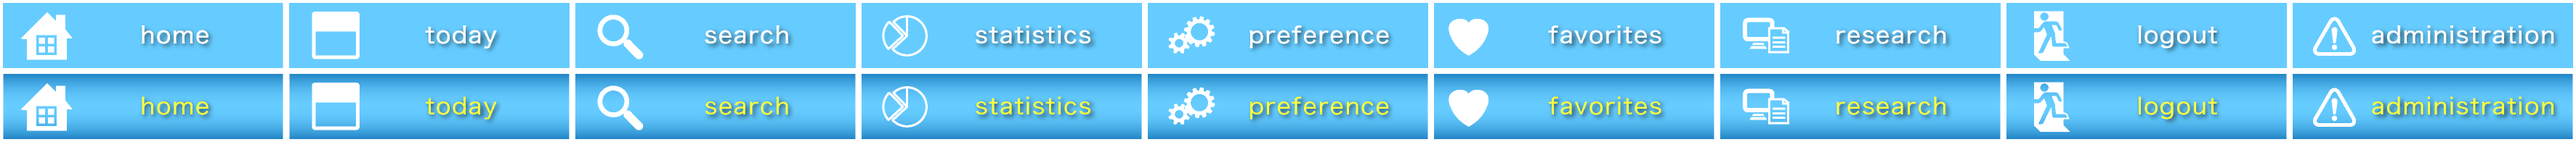
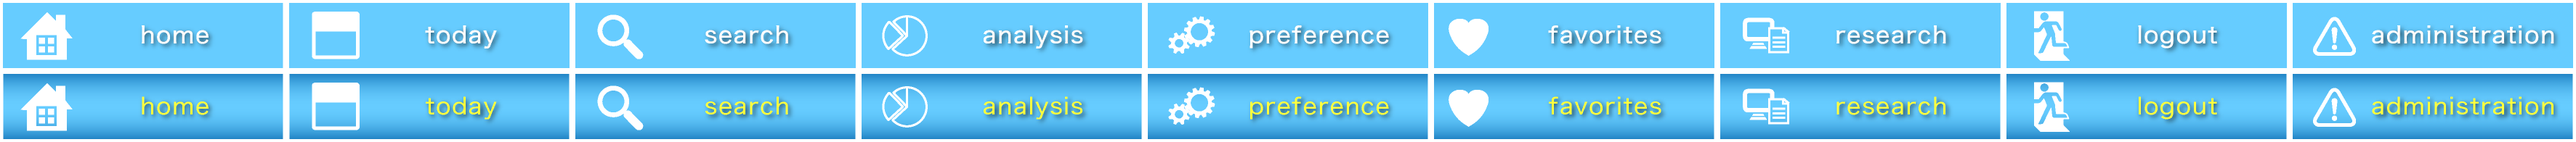
statistics => analysis

Changed region(s): [[0.3723, 0.1837, 0.4343, 0.3367], [0.3723, 0.7041, 0.4343, 0.8265]]

diff --git a/pub/css/layout.css b/pub/css/layout.css
@@ -295,8 +295,8 @@ table.search-tbl th, table.search-tbl td {
 .topmenu-today:hover { background-position: -197px -49px; }
 .topmenu-search { background-position: -394px 0px; }
 .topmenu-search:hover { background-position: -394px -49px; }
-.topmenu-statistics { background-position: -591px 0px; }
-.topmenu-statistics:hover { background-position: -591px -49px; }
+.topmenu-analysis { background-position: -591px 0px; }
+.topmenu-analysis:hover { background-position: -591px -49px; }
 .topmenu-preference { background-position: -788px 0px; }
 .topmenu-preference:hover { background-position: -788px -49px; }
 .topmenu-favorites { background-position: -985px -49px; }

diff --git a/pub/analysis/time_for_feedback_entry.php b/pub/analysis/time_for_feedback_entry.php
@@ -12,6 +12,6 @@
 	$smarty->assign('cadList',       $cadList);
 	$smarty->assign('versionDetail', explode('^', $cadList[0][1]));
 
-	$smarty->display('statistics/time_for_feedback_entry.tpl');
+	$smarty->display('analysis/time_for_feedback_entry.tpl');
 	//----------------------------------------------------------------------------------------------
 ?>

diff --git a/pub/analysis/personal_statistics.php b/pub/analysis/personal_statistics.php
@@ -12,5 +12,5 @@
 	$smarty->assign('cadList',       $cadList);
 	$smarty->assign('versionDetail', explode('^', $cadList[0][1]));
 
-	$smarty->display('statistics/personal_statistics.tpl');
+	$smarty->display('analysis/personal_statistics.tpl');
 	//--------------------------------------------------------------------------

diff --git a/pub/analysis/index.php b/pub/analysis/index.php
@@ -3,4 +3,4 @@ include_once('../common.php');
 Auth::checkSession();
 
 $smarty = new SmartyEx();
-$smarty->display('statistics/statistics.tpl');
+$smarty->display('analysis/index.tpl');
